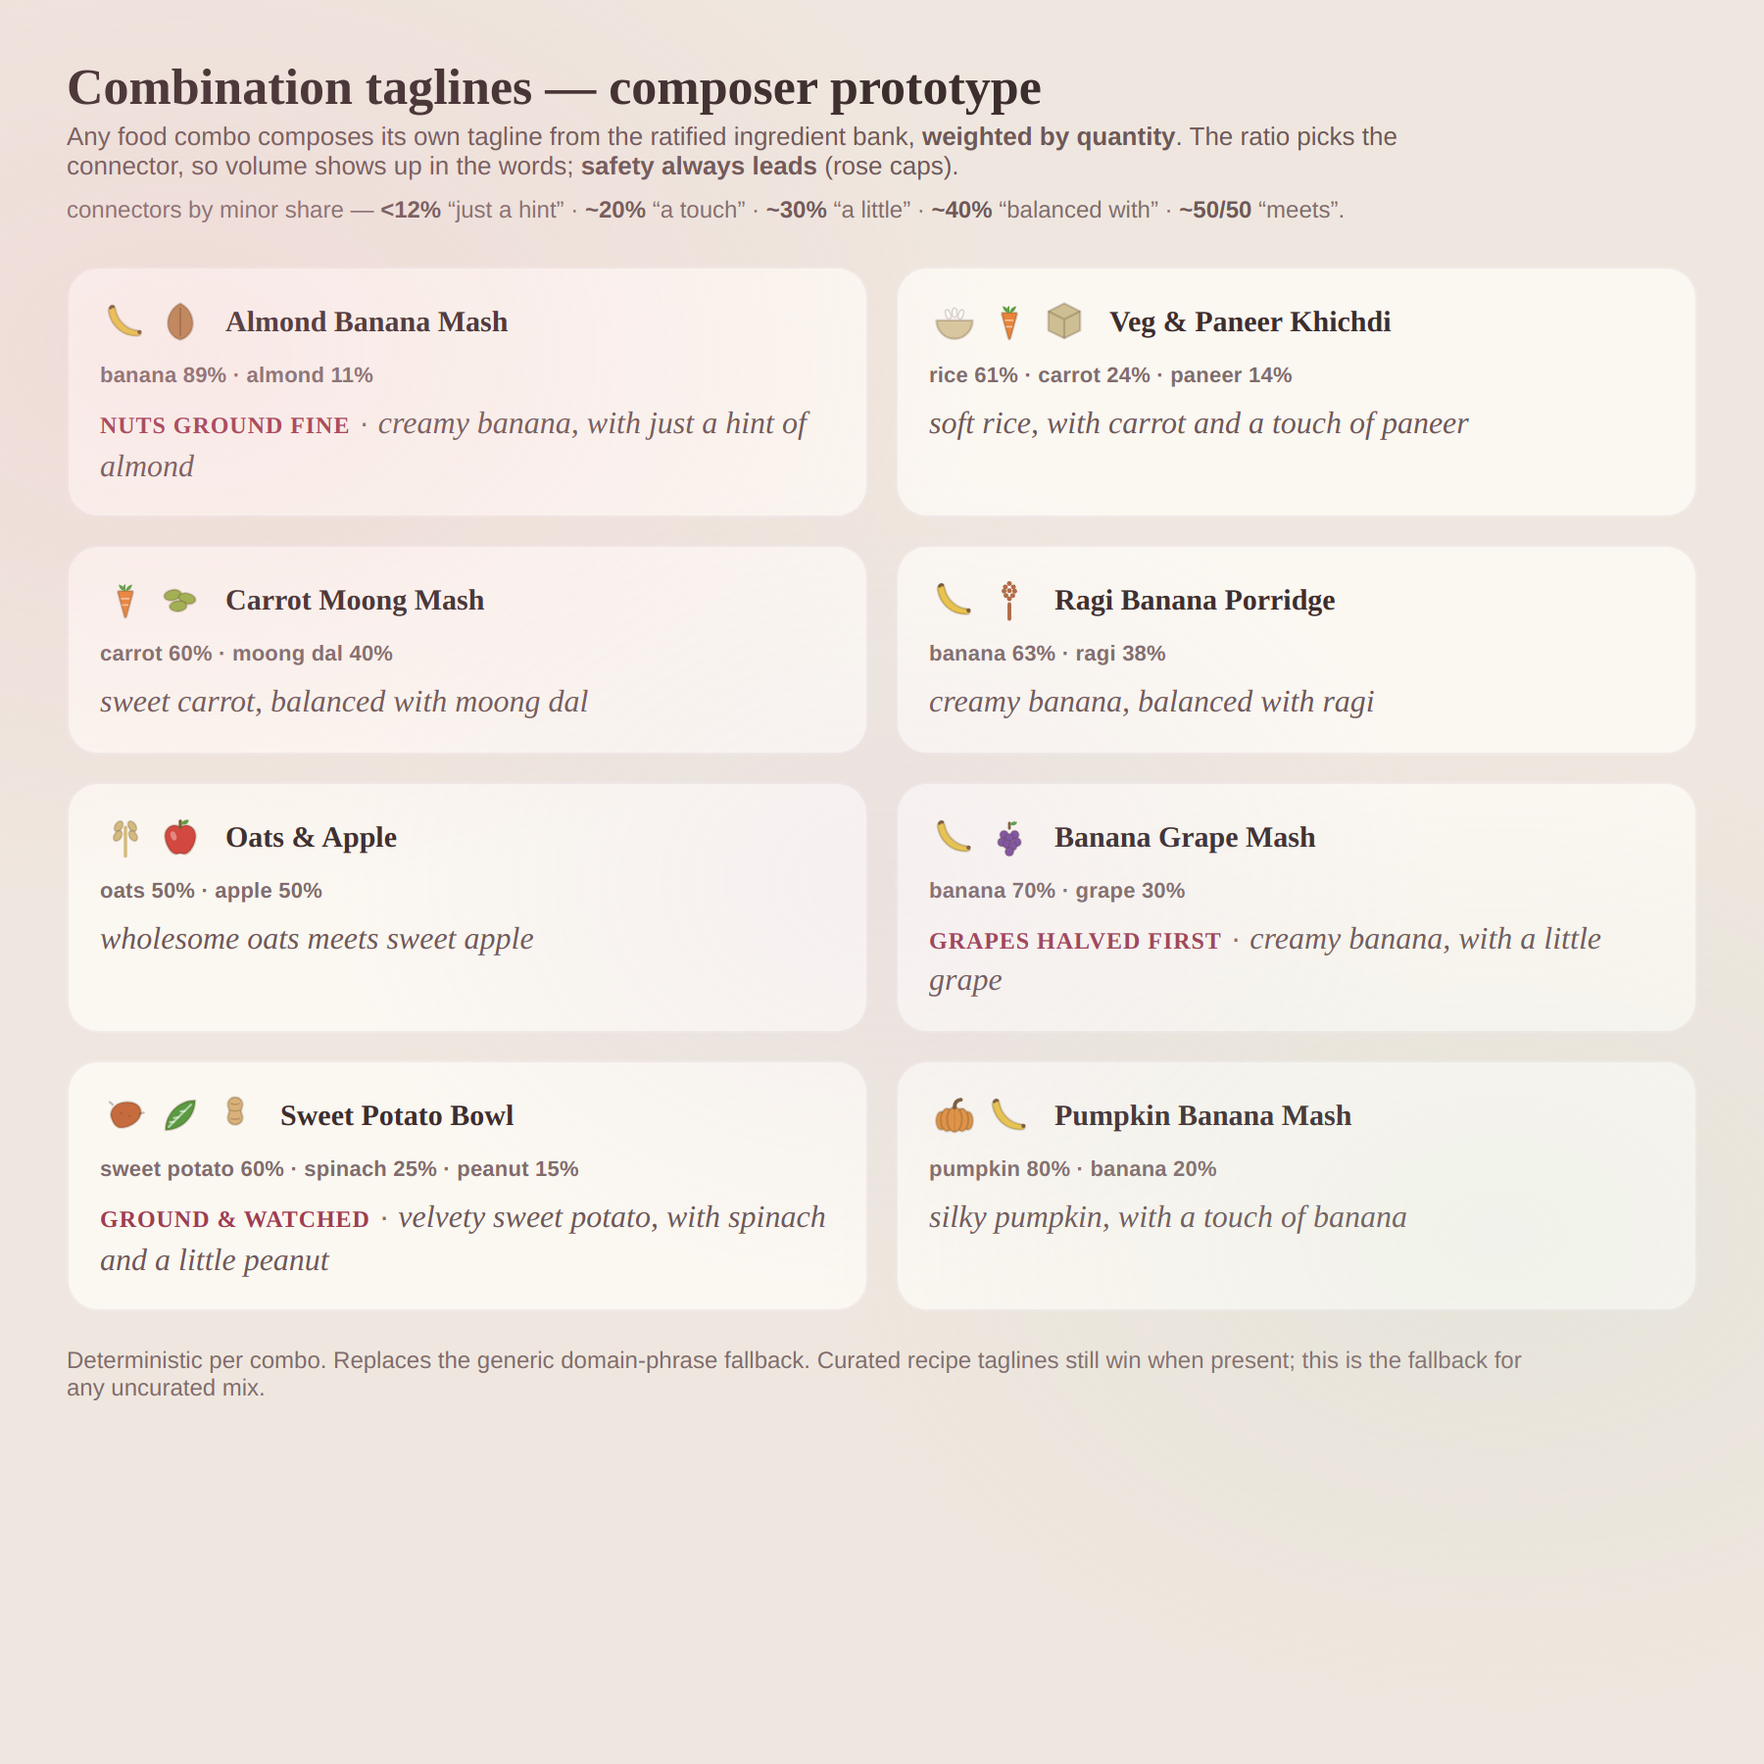
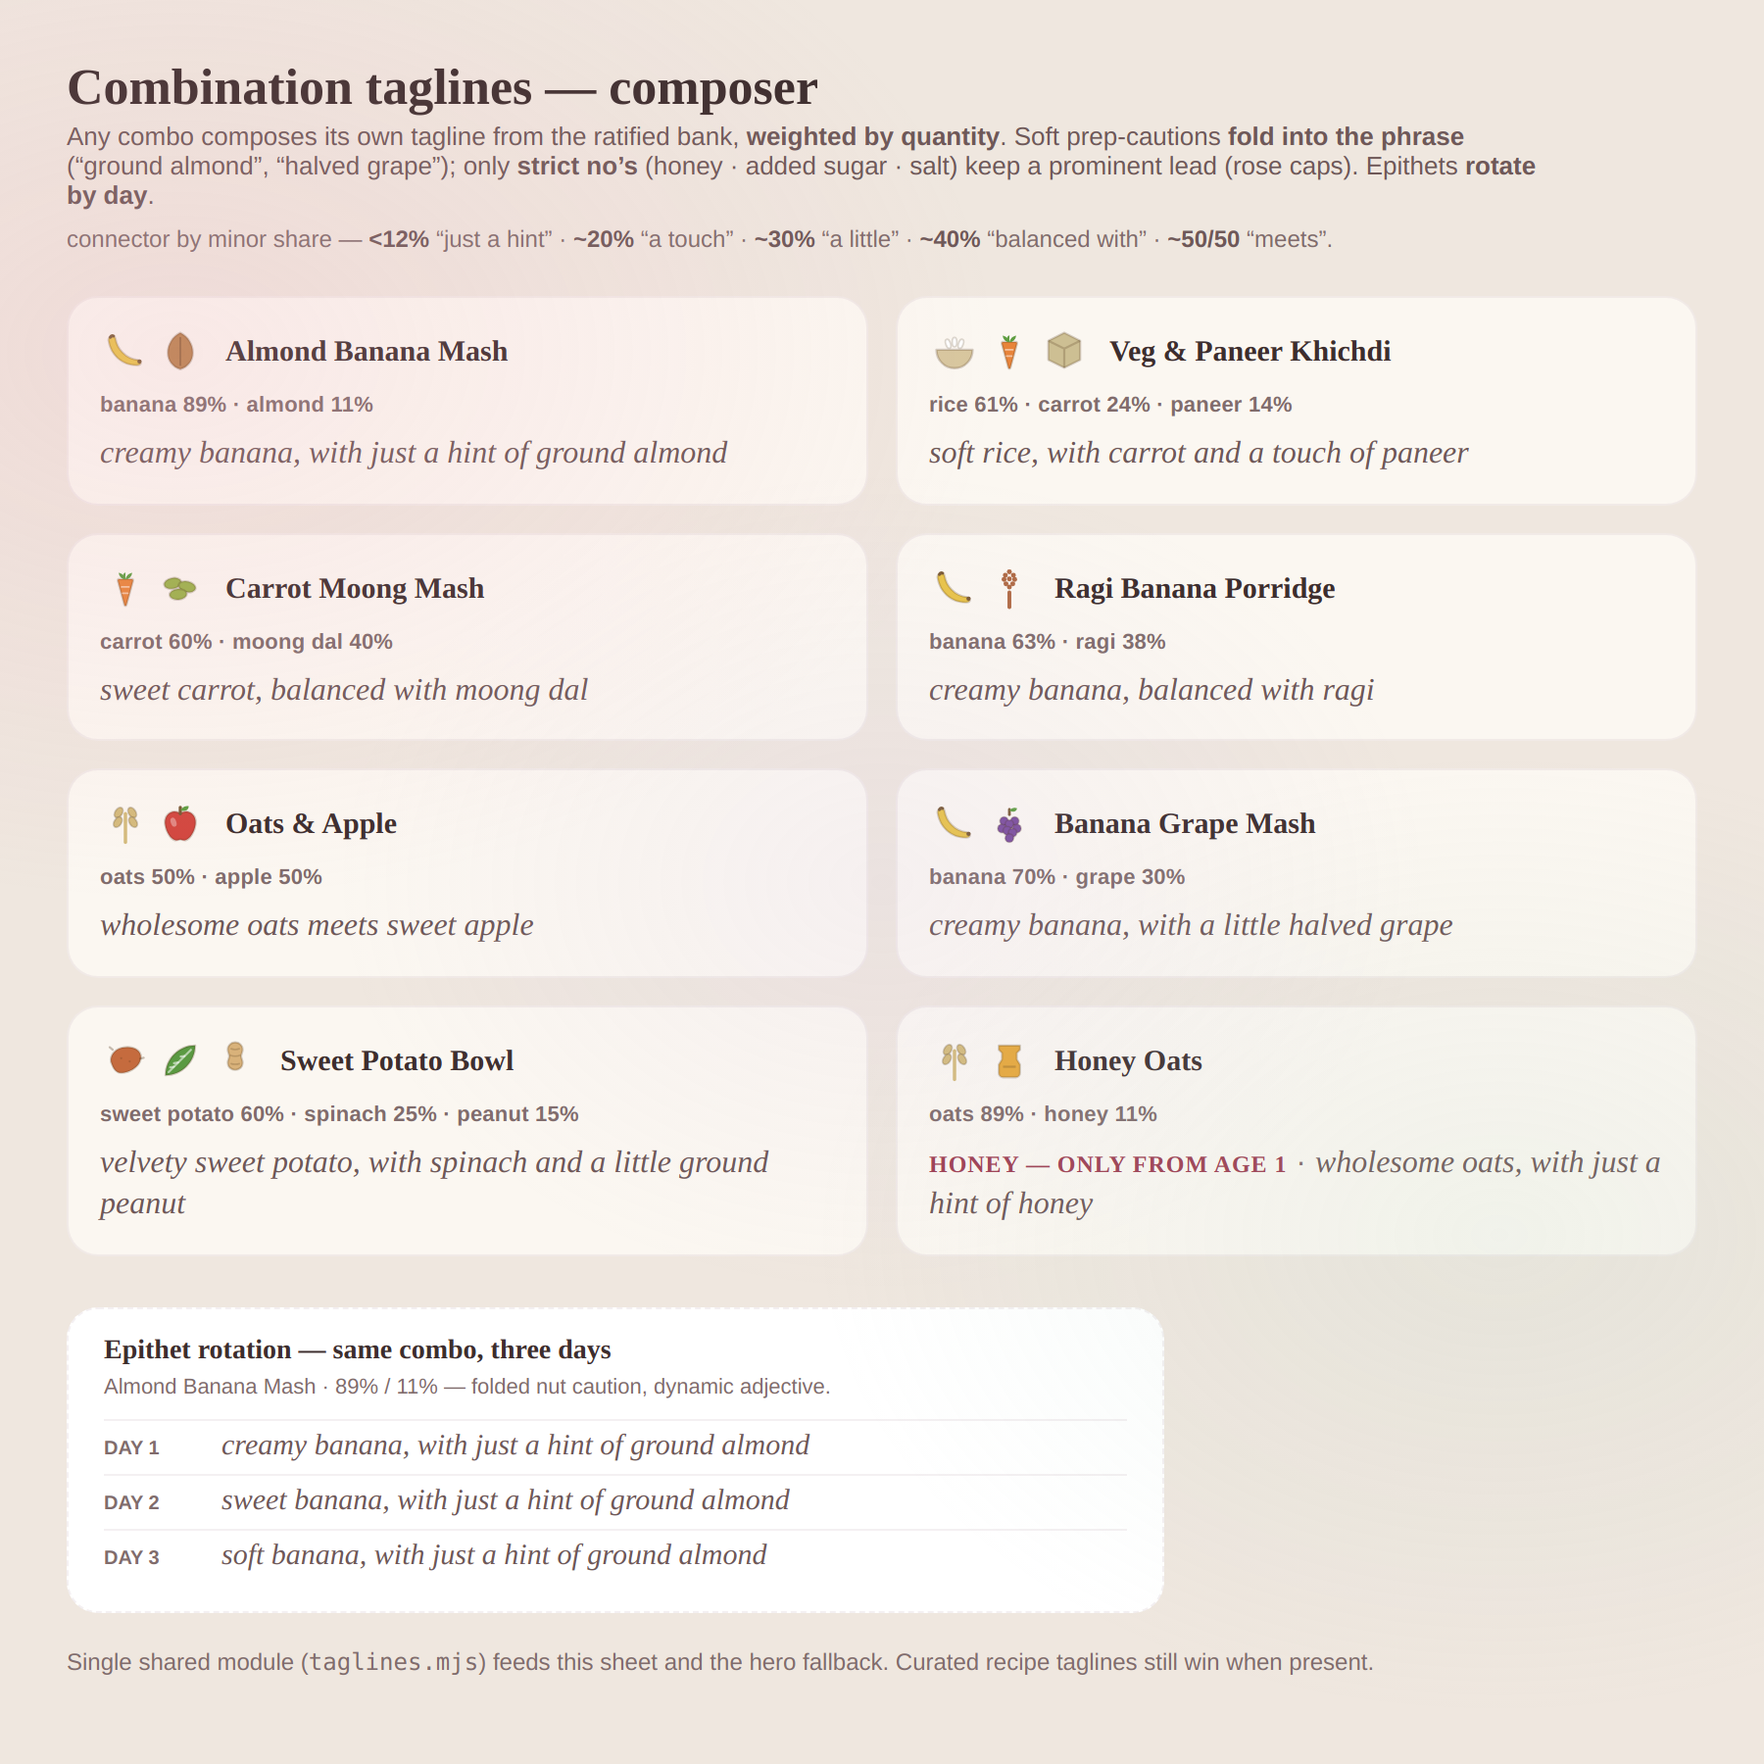
design: composer refinements (fold/strict + rotation) + wire into hero
Per Architect:
- WARNINGS fold into the phrase by default ('ground almond', 'halved grape',
  'ground peanut'); only STRICT no's (honey/added sugar/salt) keep a prominent
  rose-caps lead.
- EPITHETS rotate by day-seed (creamy/sweet/soft banana ...) — dynamic with no
  intervention.
- Extracted to a shared module taglines.mjs (EP bank + compose()); both the
  combo review sheet and the hero import it (single source).
- HERO wired: uncurated recipes now COMPOSE their tagline from the bank
  (weighted, folded, strict-aware) instead of the generic domain phrase;
  curated recipes still win. 4th demo card 'Carrot Moong Mash' shows it.
Docs-only.

diff --git a/docs/design/combo-taglines.html b/docs/design/combo-taglines.html
@@ -1,24 +1,28 @@
 <!DOCTYPE html>
-<!-- SproutLab · combination-tagline composer prototype (gen-combo-taglines.mjs). -->
+<!-- SproutLab · combination-tagline composer (gen-combo-taglines.mjs → taglines.mjs). -->
 <html lang="en" data-zoom="default"><head><meta charset="utf-8">
 <link href="https://fonts.googleapis.com/css2?family=Fraunces:ital,opsz,wght@0,9..144,600;1,9..144,400&family=Nunito:wght@600;700;800&display=swap" rel="stylesheet">
 <link rel="stylesheet" href="../../split/styles.css">
 <style>
   html,body{background:#efe7df;margin:0;}body{font-family:'Nunito',sans-serif;padding:30px 34px;color:var(--text);}
   h1{font-family:'Fraunces',serif;font-size:26px;font-weight:600;margin:0 0 2px;}
-  .lead{font-size:13px;color:var(--mid);margin:0 0 8px;max-width:740px;}
-  .key{font-size:12px;color:var(--light);margin:0 0 22px;max-width:740px;}
-  .key b{color:var(--mid);}
+  .lead{font-size:13px;color:var(--mid);margin:0 0 8px;max-width:760px;}
+  .key{font-size:12px;color:var(--light);margin:0 0 22px;max-width:760px;}.key b{color:var(--mid);}
   .grid{display:grid;grid-template-columns:1fr 1fr;gap:14px;max-width:880px;}
   .combo{background:#fbf7f1;border:1px solid var(--card-border);border-radius:16px;padding:14px 16px;}
   .hd{display:flex;align-items:center;gap:10px;margin-bottom:6px;}
   .ics{display:inline-flex;gap:2px;}.ic .zi{width:26px;height:26px;}
   .cn{font-family:'Fraunces',serif;font-weight:600;font-size:15px;color:var(--text);}
   .ratio{font-size:11px;font-weight:700;color:var(--light);margin-bottom:8px;letter-spacing:.01em;}
-  .tag{font-size:16px;color:var(--mid);line-height:1.35;}
-  .tag i{font-family:'Fraunces',serif;font-style:italic;}
+  .tag{font-size:16px;color:var(--mid);line-height:1.35;}.tag i{font-family:'Fraunces',serif;font-style:italic;}
   .warn{font-family:'Nunito';font-style:normal;font-weight:800;font-size:12px;text-transform:uppercase;letter-spacing:.04em;color:var(--tc-rose);}
   .dot{color:var(--light);}
+  .rot{margin:26px 0 0;max-width:560px;background:#fff;border:1px dashed var(--card-border);border-radius:16px;padding:14px 18px;}
+  .rot h3{font-family:'Fraunces',serif;font-weight:600;font-size:14px;margin:0 0 4px;color:var(--text);}
+  .rot p{font-size:11px;color:var(--light);margin:0 0 10px;}
+  .rrow{display:flex;align-items:baseline;gap:12px;padding:5px 0;border-top:1px solid var(--card-border);}
+  .day{flex:0 0 48px;font-size:10px;font-weight:800;text-transform:uppercase;color:var(--light);}
+  .rtag{font-family:'Fraunces',serif;font-style:italic;font-size:15px;color:var(--mid);}
   .legend{margin:18px 0 4px;font-size:12px;color:var(--light);max-width:760px;}
 </style></head><body>
 <svg style="display:none"><symbol id="zif-rice" viewBox="0 0 24 24"><path d="M3.5 11.5h17c0 4.8-3.8 8.7-8.5 8.7S3.5 16.3 3.5 11.5z" fill="currentColor" stroke="rgba(74,48,22,.22)" stroke-width="1.1" stroke-linejoin="round"/><g fill="#fff" stroke="rgba(74,48,22,.18)" stroke-width=".8"><ellipse cx="9" cy="8.7" rx="1.1" ry="2.2" transform="rotate(-20 9 8.7)"/><ellipse cx="12" cy="7.9" rx="1.1" ry="2.2"/><ellipse cx="15" cy="8.7" rx="1.1" ry="2.2" transform="rotate(20 15 8.7)"/></g></symbol>
@@ -82,17 +86,18 @@
 <symbol id="zif-tofu" viewBox="0 0 24 24"><path d="M12 3.5l7.5 3.8v9L12 20l-7.5-3.7v-9z" fill="currentColor" stroke="rgba(74,48,22,.22)" stroke-width="1" stroke-linejoin="round"/><path d="M4.5 7.3L12 11l7.5-3.7M12 11v9" stroke="rgba(74,48,22,.22)" stroke-width="1" fill="none" stroke-linejoin="round"/></symbol>
 <symbol id="zif-jaggery" viewBox="0 0 24 24"><path d="M4.6 14.2l1.3-4.4 4.2-2.1 4.7.3 3.4 2.9-.6 5-4.4 2.7-6 .2z" fill="currentColor" stroke="rgba(74,48,22,.22)" stroke-width="1" stroke-linejoin="round"/><path d="M5.9 9.8l4.4 1.9 4.5-1.6M10.3 11.7l-.5 7.2" stroke="rgba(74,48,22,.28)" stroke-width=".8" fill="none"/><path d="M17.4 17.2l2 .6-.5 1.9-1.9-.5z" fill="currentColor" stroke="rgba(74,48,22,.22)" stroke-width=".8" stroke-linejoin="round"/><g fill="rgba(74,48,22,.32)"><circle cx="8.4" cy="13.4" r=".4"/><circle cx="12" cy="14.2" r=".4"/><circle cx="13.8" cy="12.6" r=".4"/><circle cx="10.2" cy="15.4" r=".4"/></g></symbol>
 <symbol id="zif-honey" viewBox="0 0 24 24"><path d="M7 5h10v2l-1.5 1.5v3L17 14v4a2 2 0 01-2 2H9a2 2 0 01-2-2v-4l1.5-2.5v-3L7 7z" fill="currentColor" stroke="rgba(74,48,22,.22)" stroke-width="1" stroke-linejoin="round"/><path d="M9 15h6" stroke="rgba(74,48,22,.25)" stroke-width="1" fill="none"/></symbol></svg>
-<h1>Combination taglines — composer prototype</h1>
-<p class="lead">Any food combo composes its own tagline from the ratified ingredient bank, <b>weighted by quantity</b>. The ratio picks the connector, so volume shows up in the words; <b>safety always leads</b> (rose caps).</p>
-<p class="key">connectors by minor share — <b>&lt;12%</b> “just a hint” · <b>~20%</b> “a touch” · <b>~30%</b> “a little” · <b>~40%</b> “balanced with” · <b>~50/50</b> “meets”.</p>
+<h1>Combination taglines — composer</h1>
+<p class="lead">Any combo composes its own tagline from the ratified bank, <b>weighted by quantity</b>. Soft prep-cautions <b>fold into the phrase</b> (“ground almond”, “halved grape”); only <b>strict no’s</b> (honey · added sugar · salt) keep a prominent lead (rose caps). Epithets <b>rotate by day</b>.</p>
+<p class="key">connector by minor share — <b>&lt;12%</b> “just a hint” · <b>~20%</b> “a touch” · <b>~30%</b> “a little” · <b>~40%</b> “balanced with” · <b>~50/50</b> “meets”.</p>
 <div class="grid"><div class="combo"><div class="hd"><span class="ics"><span class="ic" style="color:#e9c44a"><svg class="zi"><use href="#zif-banana"/></svg></span><span class="ic" style="color:#b9824e"><svg class="zi"><use href="#zif-almond"/></svg></span></span><span class="cn">Almond Banana Mash</span></div>
-    <div class="ratio">banana 89% · almond 11%</div><div class="tag"><span class="warn">nuts ground fine</span><span class="dot"> · </span><i>creamy banana, with just a hint of almond</i></div></div><div class="combo"><div class="hd"><span class="ics"><span class="ic" style="color:#d8c79f"><svg class="zi"><use href="#zif-rice"/></svg></span><span class="ic" style="color:#e8843a"><svg class="zi"><use href="#zif-carrot"/></svg></span><span class="ic" style="color:#cdbf93"><svg class="zi"><use href="#zif-paneer"/></svg></span></span><span class="cn">Veg & Paneer Khichdi</span></div>
+    <div class="ratio">banana 89% · almond 11%</div><div class="tag"><i>creamy banana, with just a hint of ground almond</i></div></div><div class="combo"><div class="hd"><span class="ics"><span class="ic" style="color:#d8c79f"><svg class="zi"><use href="#zif-rice"/></svg></span><span class="ic" style="color:#e8843a"><svg class="zi"><use href="#zif-carrot"/></svg></span><span class="ic" style="color:#cdbf93"><svg class="zi"><use href="#zif-paneer"/></svg></span></span><span class="cn">Veg & Paneer Khichdi</span></div>
     <div class="ratio">rice 61% · carrot 24% · paneer 14%</div><div class="tag"><i>soft rice, with carrot and a touch of paneer</i></div></div><div class="combo"><div class="hd"><span class="ics"><span class="ic" style="color:#e8843a"><svg class="zi"><use href="#zif-carrot"/></svg></span><span class="ic" style="color:#9bb24a"><svg class="zi"><use href="#zif-dal"/></svg></span></span><span class="cn">Carrot Moong Mash</span></div>
     <div class="ratio">carrot 60% · moong dal 40%</div><div class="tag"><i>sweet carrot, balanced with moong dal</i></div></div><div class="combo"><div class="hd"><span class="ics"><span class="ic" style="color:#e9c44a"><svg class="zi"><use href="#zif-banana"/></svg></span><span class="ic" style="color:#b06a44"><svg class="zi"><use href="#zif-millet"/></svg></span></span><span class="cn">Ragi Banana Porridge</span></div>
     <div class="ratio">banana 63% · ragi 38%</div><div class="tag"><i>creamy banana, balanced with ragi</i></div></div><div class="combo"><div class="hd"><span class="ics"><span class="ic" style="color:#d4bb7c"><svg class="zi"><use href="#zif-oats"/></svg></span><span class="ic" style="color:#d2473f"><svg class="zi"><use href="#zif-apple"/></svg></span></span><span class="cn">Oats & Apple</span></div>
     <div class="ratio">oats 50% · apple 50%</div><div class="tag"><i>wholesome oats meets sweet apple</i></div></div><div class="combo"><div class="hd"><span class="ics"><span class="ic" style="color:#e9c44a"><svg class="zi"><use href="#zif-banana"/></svg></span><span class="ic" style="color:#7d4f9e"><svg class="zi"><use href="#zif-grapes"/></svg></span></span><span class="cn">Banana Grape Mash</span></div>
-    <div class="ratio">banana 70% · grape 30%</div><div class="tag"><span class="warn">grapes halved first</span><span class="dot"> · </span><i>creamy banana, with a little grape</i></div></div><div class="combo"><div class="hd"><span class="ics"><span class="ic" style="color:#c56b3e"><svg class="zi"><use href="#zif-sweetpotato"/></svg></span><span class="ic" style="color:#5a9a42"><svg class="zi"><use href="#zif-spinach"/></svg></span><span class="ic" style="color:#d9b27a"><svg class="zi"><use href="#zif-peanut"/></svg></span></span><span class="cn">Sweet Potato Bowl</span></div>
-    <div class="ratio">sweet potato 60% · spinach 25% · peanut 15%</div><div class="tag"><span class="warn">ground & watched</span><span class="dot"> · </span><i>velvety sweet potato, with spinach and a little peanut</i></div></div><div class="combo"><div class="hd"><span class="ics"><span class="ic" style="color:#e2913f"><svg class="zi"><use href="#zif-pumpkin"/></svg></span><span class="ic" style="color:#e9c44a"><svg class="zi"><use href="#zif-banana"/></svg></span></span><span class="cn">Pumpkin Banana Mash</span></div>
-    <div class="ratio">pumpkin 80% · banana 20%</div><div class="tag"><i>silky pumpkin, with a touch of banana</i></div></div></div>
-<p class="legend">Deterministic per combo. Replaces the generic domain-phrase fallback. Curated recipe taglines still win when present; this is the fallback for any uncurated mix.</p>
+    <div class="ratio">banana 70% · grape 30%</div><div class="tag"><i>creamy banana, with a little halved grape</i></div></div><div class="combo"><div class="hd"><span class="ics"><span class="ic" style="color:#c56b3e"><svg class="zi"><use href="#zif-sweetpotato"/></svg></span><span class="ic" style="color:#5a9a42"><svg class="zi"><use href="#zif-spinach"/></svg></span><span class="ic" style="color:#d9b27a"><svg class="zi"><use href="#zif-peanut"/></svg></span></span><span class="cn">Sweet Potato Bowl</span></div>
+    <div class="ratio">sweet potato 60% · spinach 25% · peanut 15%</div><div class="tag"><i>velvety sweet potato, with spinach and a little ground peanut</i></div></div><div class="combo"><div class="hd"><span class="ics"><span class="ic" style="color:#d4bb7c"><svg class="zi"><use href="#zif-oats"/></svg></span><span class="ic" style="color:#e8a93a"><svg class="zi"><use href="#zif-honey"/></svg></span></span><span class="cn">Honey Oats</span></div>
+    <div class="ratio">oats 89% · honey 11%</div><div class="tag"><span class="warn">honey — only from age 1</span><span class="dot"> · </span><i>wholesome oats, with just a hint of honey</i></div></div></div>
+<div class="rot"><h3>Epithet rotation — same combo, three days</h3><p>Almond Banana Mash · 89% / 11% — folded nut caution, dynamic adjective.</p><div class="rrow"><span class="day">day 1</span><span class="rtag"><i>creamy banana, with just a hint of ground almond</i></span></div><div class="rrow"><span class="day">day 2</span><span class="rtag"><i>sweet banana, with just a hint of ground almond</i></span></div><div class="rrow"><span class="day">day 3</span><span class="rtag"><i>soft banana, with just a hint of ground almond</i></span></div></div>
+<p class="legend">Single shared module (<code>taglines.mjs</code>) feeds this sheet and the hero fallback. Curated recipe taglines still win when present.</p>
 </body></html>

diff --git a/docs/design/recipes-tab/09-hero-motion.html b/docs/design/recipes-tab/09-hero-motion.html
@@ -45,6 +45,7 @@
   .gh-title{position:relative;z-index:1;font-family:'Fraunces',serif;font-weight:700;font-size:31px;line-height:1.06;letter-spacing:-0.01em;color:var(--text);margin-bottom:2px;max-width:92%;text-wrap:balance;}
   .gh-tag{position:relative;z-index:1;font-family:'Fraunces',serif;font-style:italic;font-weight:400;font-size:var(--fs-lg);line-height:1.25;color:var(--mid);margin:0 0 var(--sp-10);max-width:82%;}
   .gh-bank{font-family:'Nunito',sans-serif;font-style:normal;font-size:10.5px;font-weight:700;color:var(--light);opacity:.85;}
+  .gh-warn{font-family:'Nunito',sans-serif;font-style:normal;font-weight:800;font-size:11px;text-transform:uppercase;letter-spacing:.04em;color:var(--tc-rose);}
   .bk-gen{font-family:'Nunito',sans-serif;font-style:normal;font-size:10px;font-weight:800;text-transform:uppercase;letter-spacing:.04em;color:var(--tc-sage);}
   .gh-why{position:relative;z-index:1;font-size:var(--fs-sm);color:var(--mid);line-height:1.5;margin-bottom:var(--sp-12);max-width:78%;}
   .gh-ings{position:relative;z-index:1;display:flex;flex-wrap:wrap;gap:var(--sp-6);margin-bottom:var(--sp-16);max-width:82%;}
@@ -178,7 +179,7 @@
     <div class="gh-top"><span class="gh-eyebrow"><svg class="zi"><use href="#zi-sparkle"/></svg>Recipe of the day</span>
       <span class="gh-badge">Lunch</span></div>
     <h3 class="gh-title">Carrot Moong Mash</h3>
-    <p class="gh-tag">a smooth, veggie-forward mash<span class="gh-bank"> · <span class="bk-gen">generated fallback</span></span></p>
+    <p class="gh-tag">bright carrot, balanced with moong dal<span class="gh-bank"> · <span class="bk-gen">composed</span></span></p>
     <p class="gh-why">A quick veg-and-dal mash — carrot for sweetness, moong for easy protein.</p>
     <div class="gh-ings"><span class="gh-chip dt-vegs"><svg class="zi" style="color:#e8843a"><use href="#zif-carrot"/></svg>Carrot</span><span class="gh-chip dt-legume"><svg class="zi" style="color:#9bb24a"><use href="#zif-dal"/></svg>Moong dal</span><span class="gh-chip dt-legume"><svg class="zi" style="color:#e8b94f"><use href="#zif-ghee"/></svg>Ghee</span></div>
     <div class="gh-foot"><span class="gh-meta"><svg class="zi"><use href="#zi-clock"/></svg><b>18 min</b></span>
@@ -230,7 +231,7 @@
     <div class="gh-top"><span class="gh-eyebrow"><svg class="zi"><use href="#zi-sparkle"/></svg>Recipe of the day</span>
       <span class="gh-badge">Lunch</span></div>
     <h3 class="gh-title">Carrot Moong Mash</h3>
-    <p class="gh-tag">a smooth, veggie-forward mash<span class="gh-bank"> · <span class="bk-gen">generated fallback</span></span></p>
+    <p class="gh-tag">bright carrot, balanced with moong dal<span class="gh-bank"> · <span class="bk-gen">composed</span></span></p>
     <p class="gh-why">A quick veg-and-dal mash — carrot for sweetness, moong for easy protein.</p>
     <div class="gh-ings"><span class="gh-chip dt-vegs"><svg class="zi" style="color:#e8843a"><use href="#zif-carrot"/></svg>Carrot</span><span class="gh-chip dt-legume"><svg class="zi" style="color:#9bb24a"><use href="#zif-dal"/></svg>Moong dal</span><span class="gh-chip dt-legume"><svg class="zi" style="color:#e8b94f"><use href="#zif-ghee"/></svg>Ghee</span></div>
     <div class="gh-foot"><span class="gh-meta"><svg class="zi"><use href="#zi-clock"/></svg><b>18 min</b></span>
